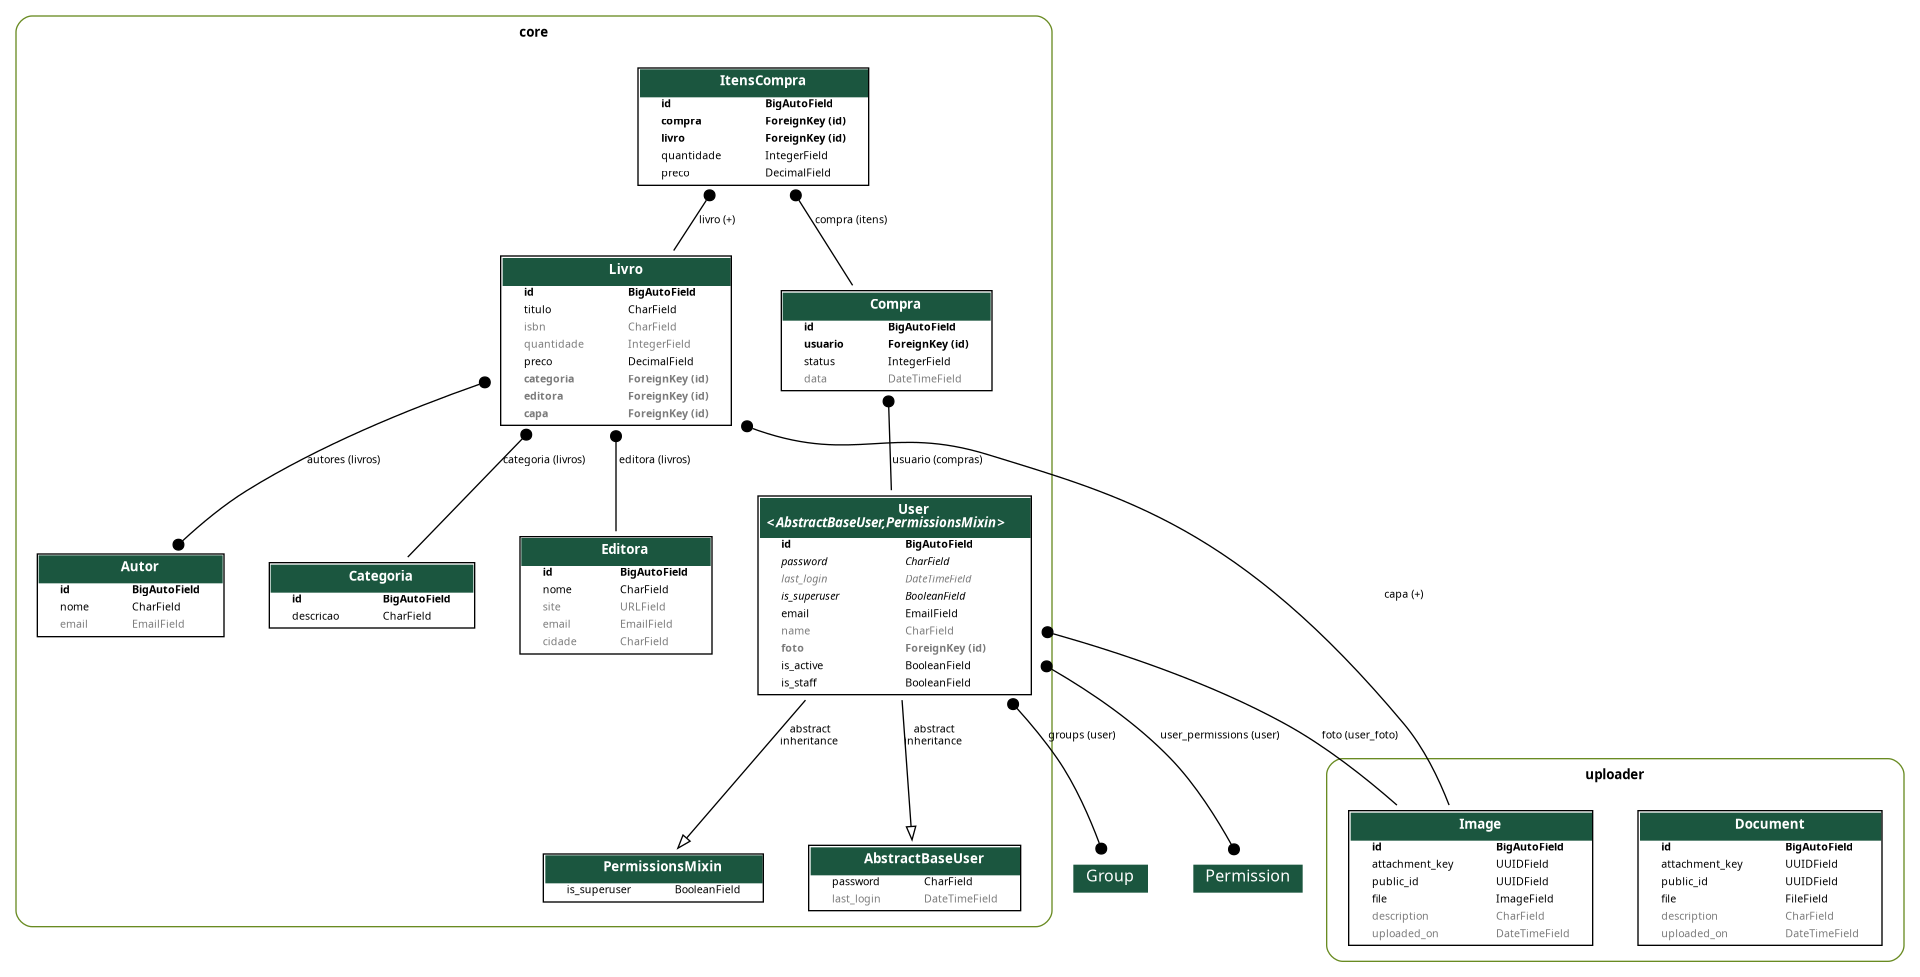
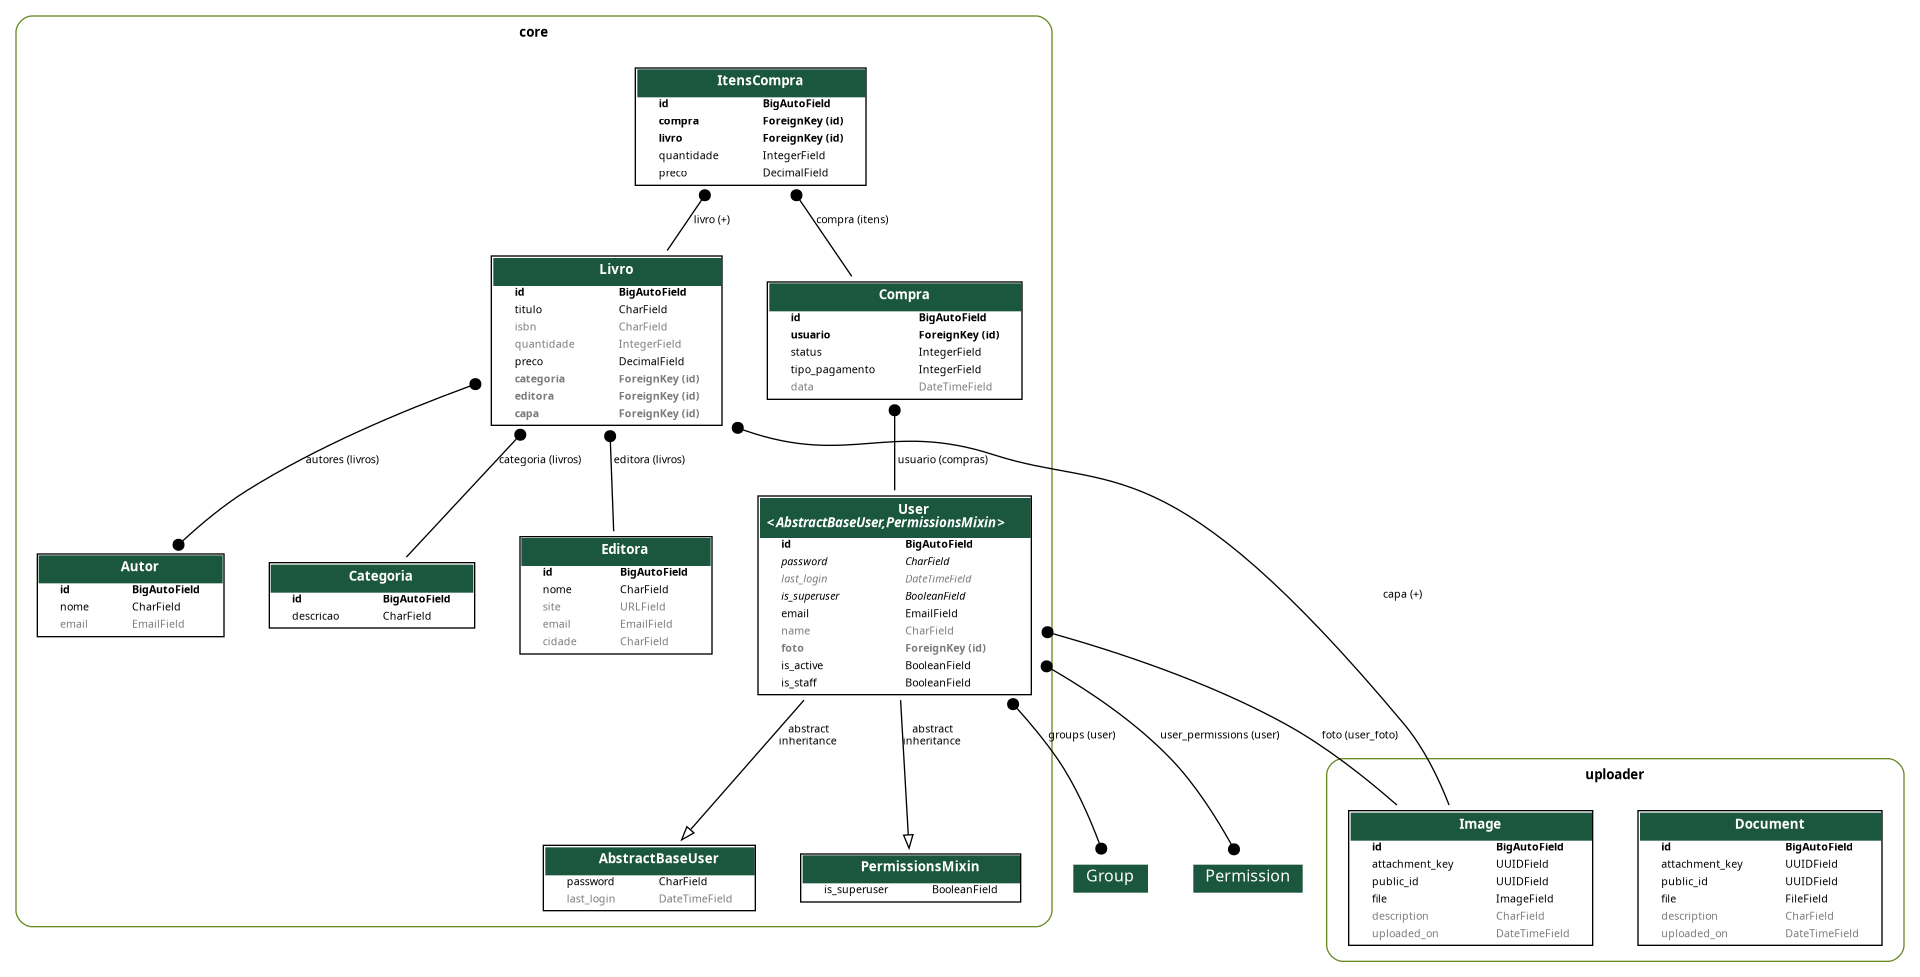
feat: add purchase type to entity Compra [REFS:#34]

diff --git a/core/models/compra.py b/core/models/compra.py
@@ -11,8 +11,22 @@ class Compra(models.Model):
         PAGO = 3, 'Pago'
         ENTREGUE = 4, 'Entregue'
 
+    class TipoPagamento(models.IntegerChoices):
+        CARTAO_CREDITO = 1, 'Cartão de Crédito'
+        CARTAO_DEBITO = 2, 'Cartão de Débito'
+        PIX = 3, 'PIX'
+        BOLETO = 4, 'Boleto'
+        TRANSFERENCIA_BANCARIA = 5, 'Transferência Bancária'
+        DINHEIRO = 6, 'Dinheiro'
+        CHEQUE = 7, 'Cheque'
+        OUTRO = 8, 'Outro'
+
     usuario = models.ForeignKey(User, on_delete=models.PROTECT, related_name='compras')
     status = models.IntegerField(choices=StatusCompra.choices, default=StatusCompra.CARRINHO)
+    tipo_pagamento = models.IntegerField(
+        choices=TipoPagamento.choices,
+        default=TipoPagamento.PIX
+    )
     data = models.DateTimeField(auto_now_add=True)
 
     @property

diff --git a/core/migrations/0019_alter_compra_tipo_pagamento.py b/core/migrations/0019_alter_compra_tipo_pagamento.py
@@ -1,0 +1,18 @@
+# Generated by Django 5.2.13 on 2026-09-15 12:15
+
+from django.db import migrations, models
+
+
+class Migration(migrations.Migration):
+
+    dependencies = [
+        ('core', '0018_compra_tipo_pagamento'),
+    ]
+
+    operations = [
+        migrations.AlterField(
+            model_name='compra',
+            name='tipo_pagamento',
+            field=models.IntegerField(choices=[(1, 'Cartão de Crédito'), (2, 'Cartão de Débito'), (3, 'PIX'), (4, 'Boleto'), (5, 'Transferência Bancária'), (6, 'Dinheiro'), (7, 'Cheque'), (8, 'Outro')], default=3),
+        ),
+    ]

diff --git a/core/serializers/compra.py b/core/serializers/compra.py
@@ -98,8 +98,9 @@ class CompraSerializer(ModelSerializer):
     usuario = CharField(source='usuario.email', read_only=True)
     status = CharField(source='get_status_display', read_only=True)
     data=DateTimeField(read_only=True)
+    tipo_pagamento = CharField(source='get_tipo_pagamento_display', read_only=True)
     itens = ItensCompraSerializer(many = True, read_only = True)
 
     class Meta:
         model = Compra
-        fields = ('id', 'usuario', 'status', 'total', 'data', 'itens')
+        fields = ('id', 'usuario', 'status', 'tipo_pagamento', 'total', 'data', 'itens')

diff --git a/core/migrations/0018_compra_tipo_pagamento.py b/core/migrations/0018_compra_tipo_pagamento.py
@@ -1,0 +1,18 @@
+# Generated by Django 5.2.13 on 2026-09-15 12:03
+
+from django.db import migrations, models
+
+
+class Migration(migrations.Migration):
+
+    dependencies = [
+        ('core', '0017_compra_data'),
+    ]
+
+    operations = [
+        migrations.AddField(
+            model_name='compra',
+            name='tipo_pagamento',
+            field=models.IntegerField(choices=[(1, 'Cartão de Crédito'), (2, 'Cartão de Débito'), (3, 'PIX'), (4, 'Boleto'), (5, 'Transferência Bancária'), (6, 'Dinheiro'), (7, 'Outro')], default=3),
+        ),
+    ]
